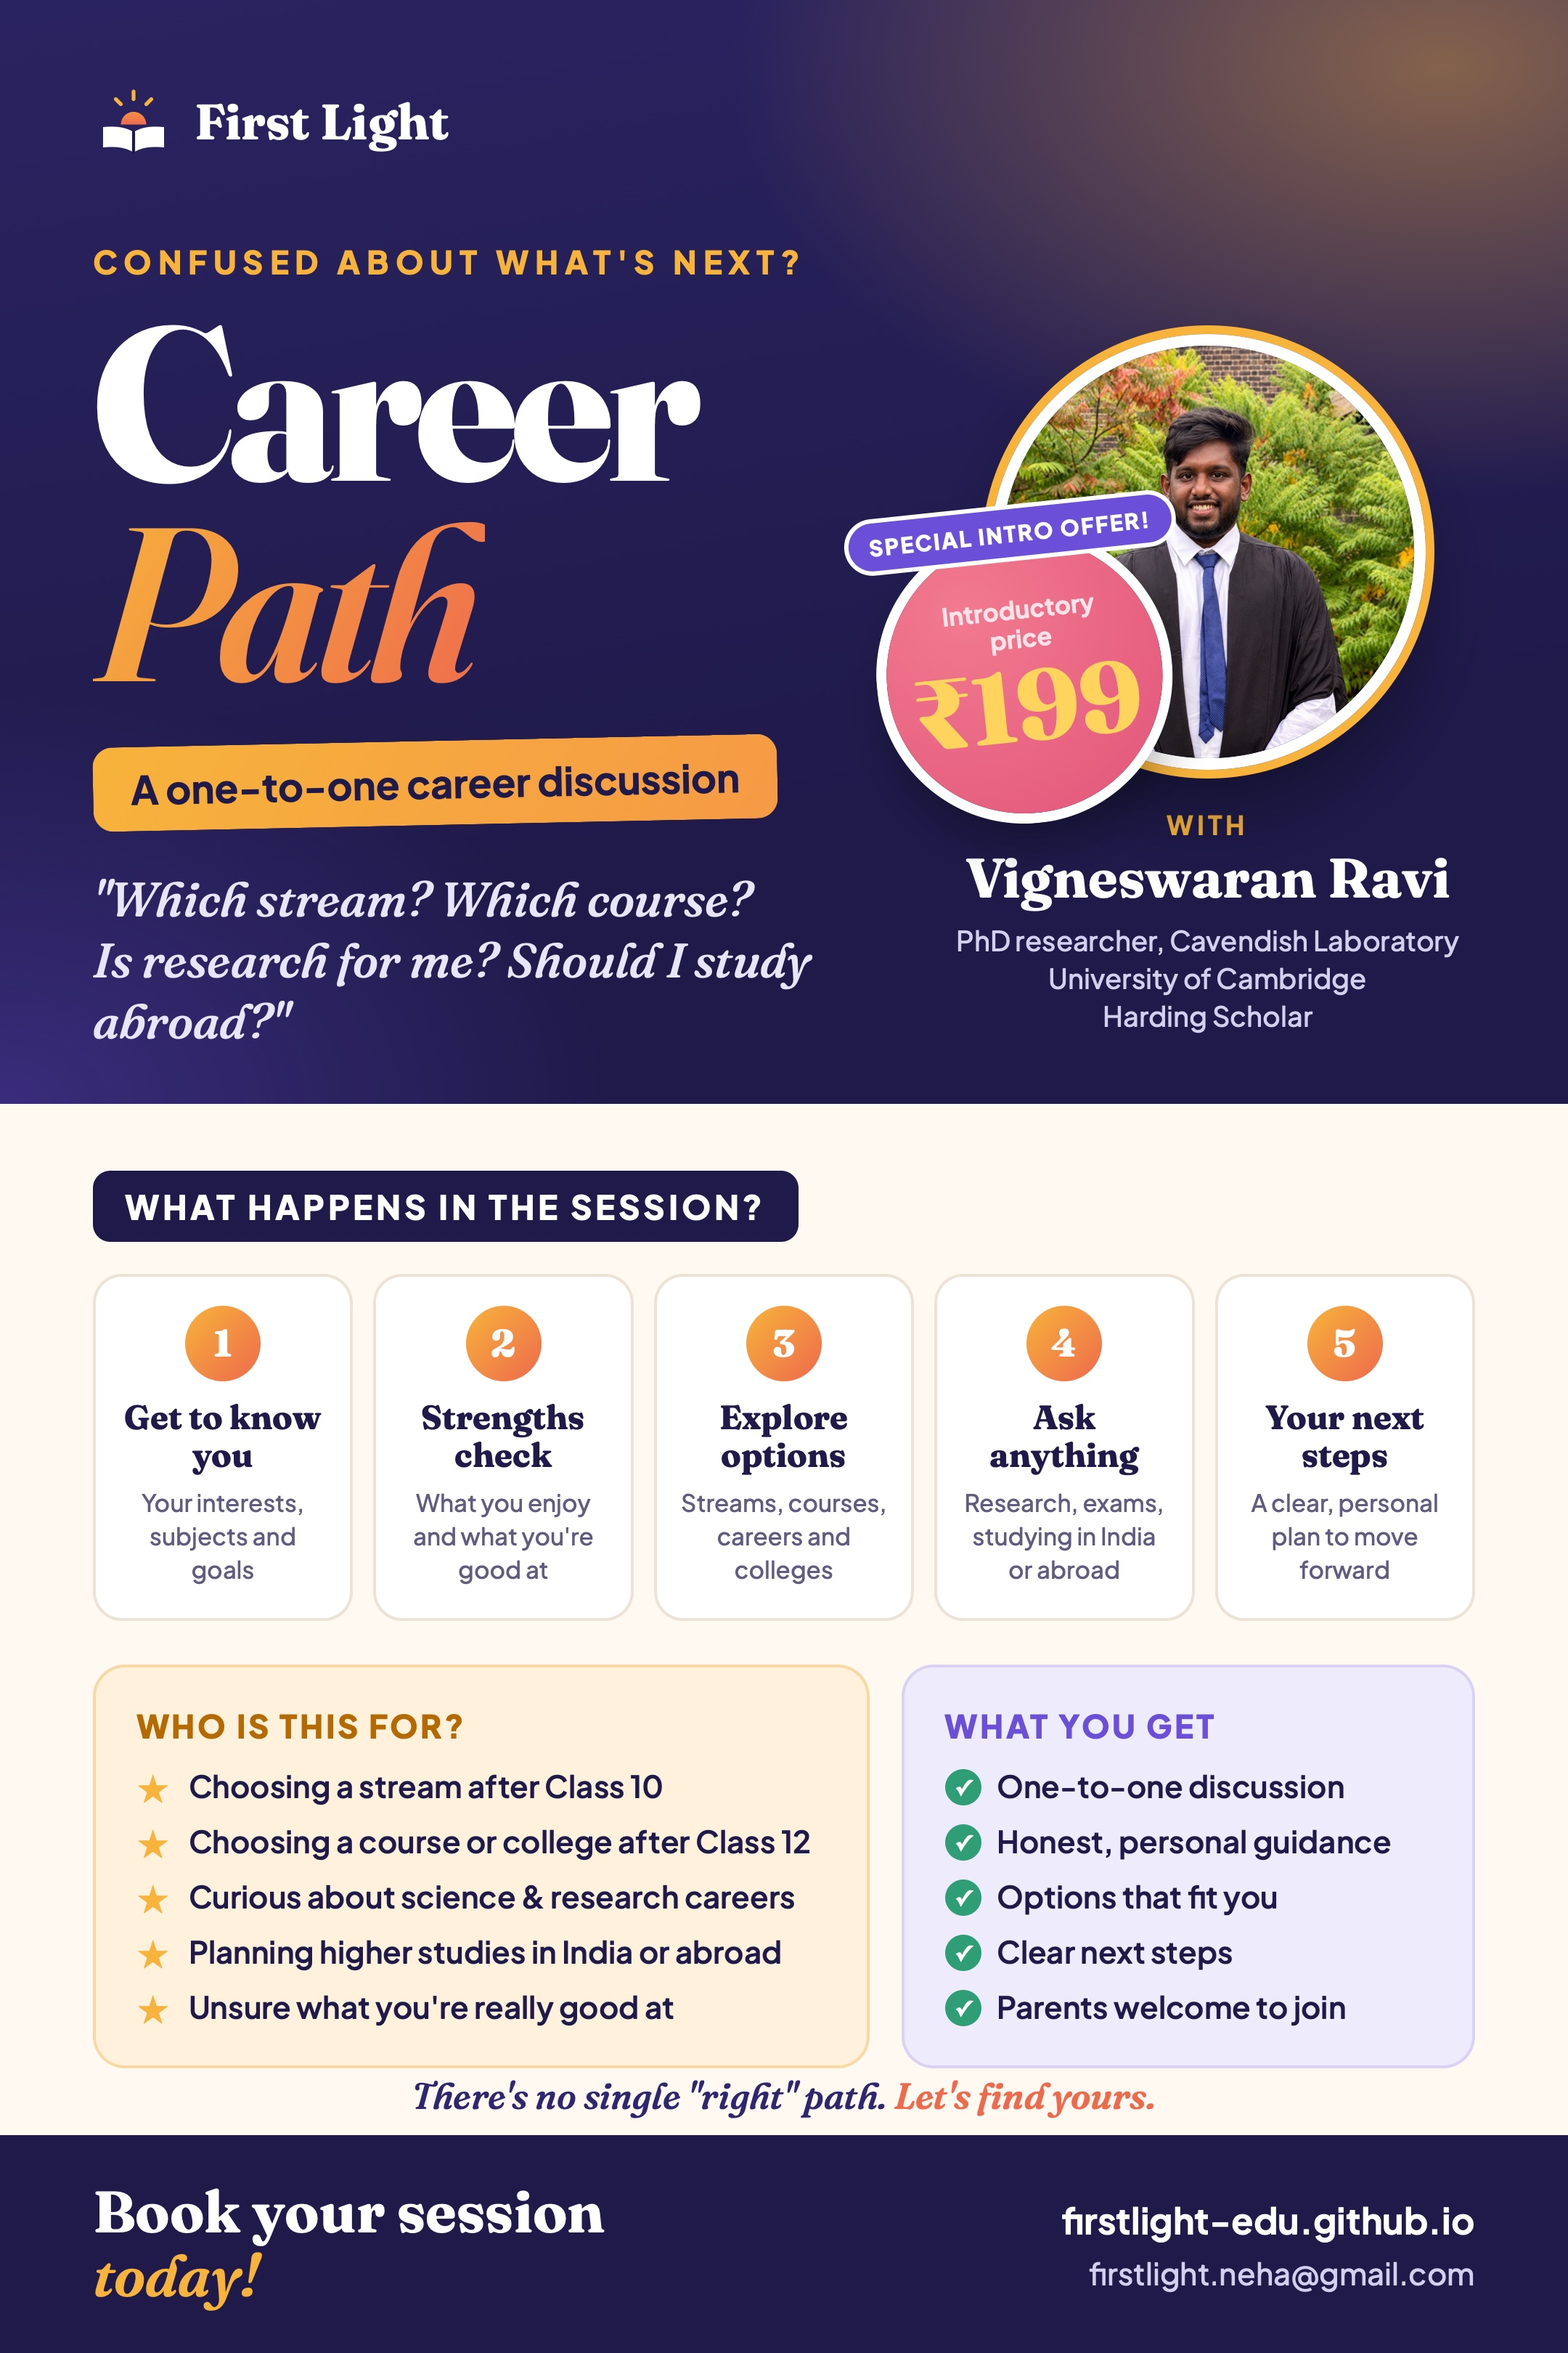
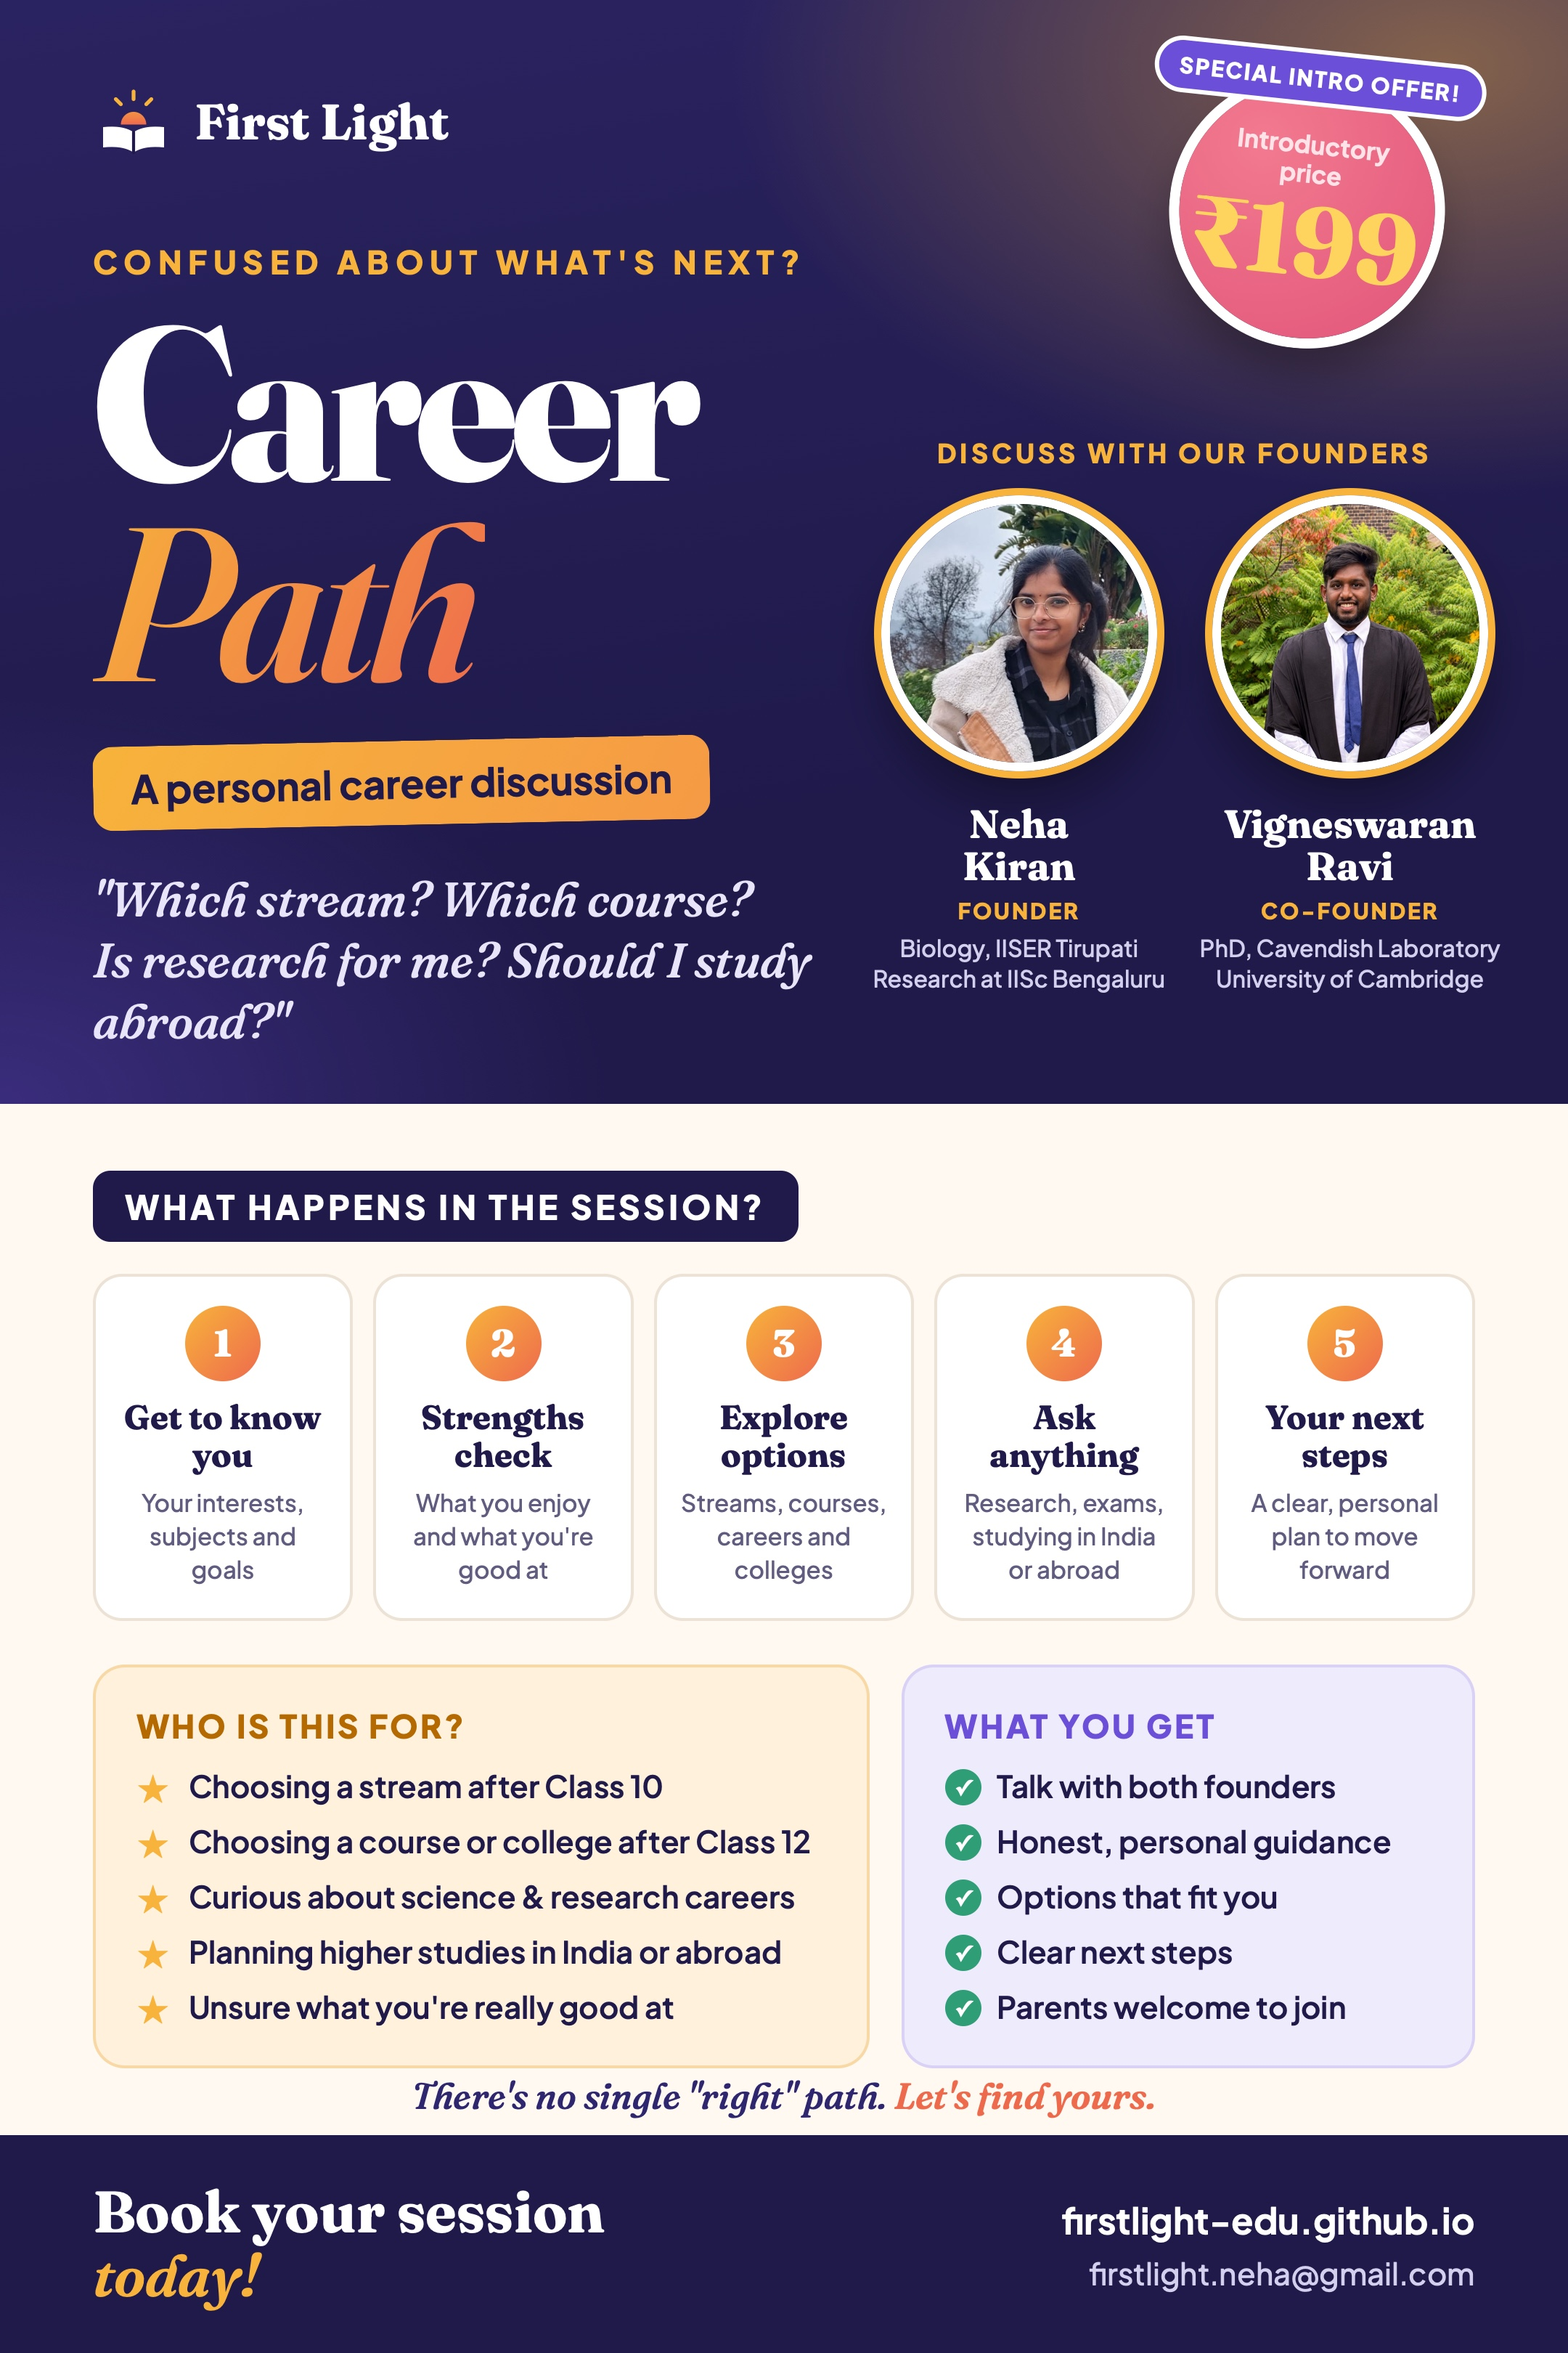
Career Path: discussion with both founders (Neha Kiran and Vigneswaran Ravi)
Updates poster and website text.

Changed region(s): [[0.5273, 0.0, 0.9616, 0.4364], [0.0931, 0.3117, 0.4963, 0.3741], [0.6514, 0.7481, 0.8375, 0.7793]]

diff --git a/posters/career-path.html b/posters/career-path.html
@@ -31,8 +31,14 @@
          background: linear-gradient(120deg, var(--sun), #F59A45); padding: 12px 26px; border-radius: 14px; transform: rotate(-1.2deg); }
   .question { margin-top: 30px; max-width: 560px; font-family: Fraunces, serif; font-style: italic; font-size: 33px; line-height: 1.3; color: #E8E5FA; }
 
-  .photo-wrap { position: absolute; right: 48px; top: 230px; width: 400px; text-align: center; }
-  .photo-box { position: relative; width: 316px; margin: 0 auto; }
+  .people-wrap { position: absolute; right: 44px; top: 300px; width: 440px; text-align: center; }
+  .people-label { font-size: 18px; font-weight: 800; letter-spacing: .14em; text-transform: uppercase; color: var(--sun); margin-bottom: 18px; }
+  .people { display: grid; grid-template-columns: 1fr 1fr; gap: 16px; }
+  .person .photo { width: 190px; height: 190px; border-width: 6px; box-shadow: 0 0 0 5px var(--sun), 0 20px 40px rgba(0,0,0,.35); }
+  .person .pname { font-family: Fraunces, serif; font-weight: 700; font-size: 27px; line-height: 1.1; margin-top: 18px; }
+  .person .prole { font-size: 15px; font-weight: 800; letter-spacing: .1em; text-transform: uppercase; color: var(--sun); margin-top: 6px; }
+  .person .pcred { font-size: 16px; line-height: 1.35; color: #D3CFEE; margin-top: 6px; }
+  .price-top { position: absolute; right: 64px; top: 34px; }
   .photo {
     width: 300px; height: 300px; border-radius: 50%; object-fit: cover; object-position: 50% 28%;
     border: 8px solid #fff; box-shadow: 0 0 0 6px var(--sun), 0 30px 60px rgba(0,0,0,.35); margin: 0 auto;
@@ -42,10 +48,10 @@
   .cred { font-size: 19px; line-height: 1.4; color: #D3CFEE; margin-top: 6px; }
 
   .price {
-    position: absolute; left: -84px; bottom: -26px; display: grid; justify-items: center; gap: 0; transform: rotate(-6deg);
+    display: grid; justify-items: center; gap: 0; transform: rotate(6deg);
   }
   .price-badge {
-    width: 190px; height: 190px; border-radius: 50%; display: grid; place-content: center; text-align: center;
+    width: 176px; height: 176px; border-radius: 50%; display: grid; place-content: center; text-align: center;
     background: radial-gradient(circle at 30% 25%, #F27A8F, var(--rose)); box-shadow: 0 0 0 7px #fff, 0 20px 40px rgba(0,0,0,.35);
   }
   .price-badge small { display: block; font-size: 17px; font-weight: 700; color: #FFE3E9; line-height: 1.2; }
@@ -101,20 +107,32 @@
 
     <p class="kicker">Confused about what's next?</p>
     <h1>Career<br><em>Path</em></h1>
-    <p class="sub">A one-to-one career discussion</p>
+    <p class="sub">A personal career discussion</p>
     <p class="question">"Which stream? Which course?<br>Is research for me? Should I study abroad?"</p>
 
-    <div class="photo-wrap">
-      <div class="photo-box">
-        <img class="photo" src="../images/vigneswaran.jpg" alt="">
-        <div class="price">
-          <div class="price-badge"><small>Introductory<br>price</small><strong>₹199</strong></div>
-          <span class="price-pill">Special intro offer!</span>
+    <div class="price-top">
+      <div class="price">
+        <span class="price-pill">Special intro offer!</span>
+        <div class="price-badge"><small>Introductory<br>price</small><strong>₹199</strong></div>
+      </div>
+    </div>
+
+    <div class="people-wrap">
+      <p class="people-label">Discuss with our founders</p>
+      <div class="people">
+        <div class="person">
+          <img class="photo" src="../images/neha.jpg" alt="">
+          <p class="pname">Neha<br>Kiran</p>
+          <p class="prole">Founder</p>
+          <p class="pcred">Biology, IISER Tirupati<br>Research at IISc Bengaluru</p>
+        </div>
+        <div class="person">
+          <img class="photo" src="../images/vigneswaran.jpg" alt="">
+          <p class="pname">Vigneswaran<br>Ravi</p>
+          <p class="prole">Co-founder</p>
+          <p class="pcred">PhD, Cavendish Laboratory<br>University of Cambridge</p>
         </div>
       </div>
-      <p class="with">With</p>
-      <p class="name">Vigneswaran Ravi</p>
-      <p class="cred">PhD researcher, Cavendish Laboratory<br>University of Cambridge<br>Harding Scholar</p>
     </div>
   </section>
 
@@ -142,7 +160,7 @@
       <div class="card get">
         <h2>What you get</h2>
         <ul>
-          <li>One-to-one discussion</li>
+          <li>Talk with both founders</li>
           <li>Honest, personal guidance</li>
           <li>Options that fit you</li>
           <li>Clear next steps</li>

diff --git a/index.html b/index.html
@@ -202,11 +202,11 @@
           <article class="program reveal">
             <div class="program-top">
               <span class="tag tag-live">Now booking</span>
-              <span class="program-meta">Class 10+ · One-to-one</span>
+              <span class="program-meta">Class 10+ · With our founders</span>
             </div>
             <h3>Career Path</h3>
-            <p class="program-sub">A one-to-one career discussion</p>
-            <p>Talk through streams, courses, colleges, research and studying abroad with Vigneswaran Ravi, a PhD researcher at the University of Cambridge, and leave with clear next steps.</p>
+            <p class="program-sub">A personal career discussion</p>
+            <p>Talk through streams, courses, colleges, research and studying abroad with our founders, Neha Kiran (IISER Tirupati) and Vigneswaran Ravi (University of Cambridge), and leave with clear next steps.</p>
             <div class="program-foot">
               <div class="price-block">
                 <span class="price-big dark">₹199</span>
@@ -323,8 +323,9 @@
             <h2>Career Path</h2>
             <p class="fyv-tagline">Explore <span>•</span> Ask anything <span>•</span> Plan your next step</p>
             <p class="section-sub left">
-              A one-to-one career discussion with <strong>Vigneswaran Ravi</strong>, PhD researcher at the
-              Cavendish Laboratory, University of Cambridge, and Harding Scholar.
+              A personal career discussion with our founders:
+              <strong>Neha Kiran</strong> (Biology, IISER Tirupati; research at IISc Bengaluru) and
+              <strong>Vigneswaran Ravi</strong> (PhD researcher, Cavendish Laboratory, University of Cambridge).
               "Which stream? Which course? Is research for me? Should I study abroad?"
               Bring your questions. There's no single "right" path. Let's find yours.
             </p>
@@ -338,7 +339,7 @@
           </div>
           <figure class="poster reveal">
             <a href="images/career-path-poster.jpg" target="_blank" rel="noopener">
-              <img src="images/career-path-poster.jpg" alt="Career Path poster: a one-to-one career discussion with Vigneswaran Ravi, introductory price ₹199." loading="lazy">
+              <img src="images/career-path-poster.jpg" alt="Career Path poster: a personal career discussion with founders Neha Kiran and Vigneswaran Ravi, introductory price ₹199." loading="lazy">
             </a>
             <figcaption>Tap to view the full poster</figcaption>
           </figure>
@@ -367,7 +368,7 @@
           <div class="panel reveal">
             <h3>What you get</h3>
             <ul class="checklist">
-              <li>One-to-one discussion</li>
+              <li>Talk with both founders</li>
               <li>Honest, personal guidance</li>
               <li>Options that fit you</li>
               <li>Clear next steps</li>
